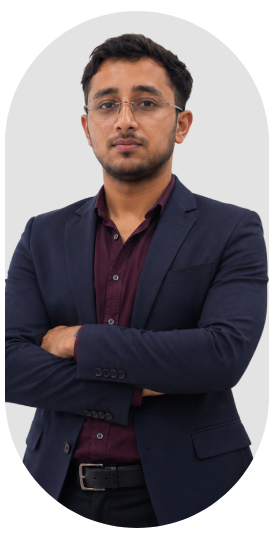
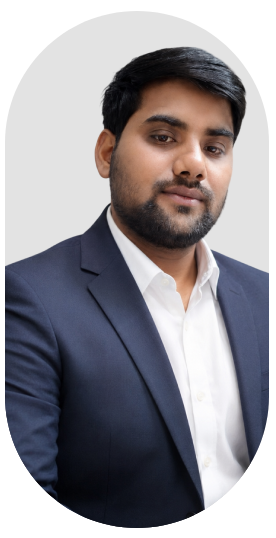
team added

diff --git a/src/components/our_team.tsx b/src/components/our_team.tsx
@@ -72,7 +72,11 @@ const Our_team = () => {
   },
 
   
-  
+  {
+    name: "Aman",
+    designation: "Head of SEO",
+    img: "/team/aman.png",
+  },
   
   {
     name: "Ashish",
@@ -111,9 +115,29 @@ const Our_team = () => {
     img: "/team/Abhishek.png",
   },
   {
+    name: "Gargee",
+    designation: "Content Executive",
+    img: "/team/gargee.png",
+  },
+  {
+    name: "Mehak",
+    designation: "Content Executive",
+    img: "/team/mehak.png",
+  },
+  {
     name: "Aman",
-    designation: "SEO Mangager",
-    img: "/team/aman.png",
+    designation: "SEO Executive",
+    img: "/team/aman-e.png",
+  },
+  {
+    name: "Ahmad",
+    designation: " Marketing Head",
+    img: "/team/ahmad.png",
+  },
+  {
+    name: "Murtaza",
+    designation: "Marketing Manager",
+    img: "/team/murtaza.png",
   },
 ];
 

diff --git a/src/components/hero.tsx b/src/components/hero.tsx
@@ -101,7 +101,7 @@ const Hero = () => {
           </h1>
 
           <p className="hero-subtitle">
-            Web development, social media, and performance advertising designed to help growing businesses.
+            Web development, social media, Ai Visibility and performance advertising designed to help growing businesses.
           </p>
 
           <div className="cta-buttons">